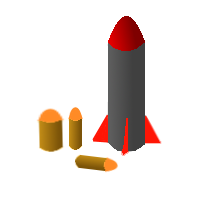
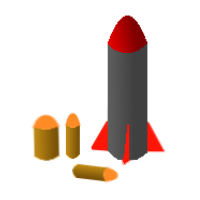
Ship can shoot bullets

diff --git a/src/Player.java b/src/Player.java
@@ -4,18 +4,29 @@ import java.awt.image.*;
 import javax.imageio.*;
 import java.io.*;
 import java.util.Map;
+import java.util.Vector;
 
 public class Player
 {
+	private int panelWidth; // le za informacijo o velikosti okna
+	private int panelHeight;
 	private Rect2D rect;
 	private Vec2D movementDirection;
 	private Vec2D hitboxLocation; // relativna lokacija hitbox-a glede na izhodisce this.rect 
 	private CircleHitbox hitbox;
+	private PlayerWeapon weapon;
 	private Image texture;
+	private Vector<PlayerBullet> bullets;
 	
-	Player(Rect2D rect) 
+	Player(Rect2D rect,int windowWidth,int windowHeight) 
 	{
+		this.panelWidth = windowWidth;
+		this.panelHeight = windowHeight;
+		this.bullets = new Vector<PlayerBullet>();
+		
 		this.rect = rect;
+		
+		this.weapon = new PlayerWeapon();
 		
 		this.movementDirection = new Vec2D(0.f,0.f);
 		
@@ -43,11 +54,25 @@ public class Player
 	
 	public void update(float deltaTime,KeyboardControls keyboard,int windowWidth,int windowHeight)
 	{
+		int i = 0;
+		while(i < this.bullets.size())
+		{
+			final PlayerBullet currBullet = this.bullets.get(i);
+			currBullet.update(deltaTime);
+			
+			if(currBullet.isOffscreen(this.panelWidth,this.panelHeight))
+				this.bullets.remove(i);
+			else
+				i++;
+		}
+		
+		this.weapon.update(deltaTime);
+		
 		final float pixelsPerMilli = .5f;
-		Map<Integer,Boolean> keyMap = keyboard.getKeyMap();
 		
 		this.movementDirection.zero();
 		
+		Map<Integer,Boolean> keyMap = keyboard.getKeyMap();
 		if(keyMap.get(KeyEvent.VK_UP))
 			this.movementDirection.translate(.0f,-1.f);
 		if(keyMap.get(KeyEvent.VK_DOWN))
@@ -56,6 +81,8 @@ public class Player
 			this.movementDirection.translate(-1.f,.0f);
 		if(keyMap.get(KeyEvent.VK_RIGHT))
 			this.movementDirection.translate(1.f,.0f);
+		if(keyMap.get(KeyEvent.VK_SPACE))
+			this.weapon.tryToShoot(this.rect,this.bullets);
 		
 		if(!this.movementDirection.isZeroVec())
 		{
@@ -66,7 +93,6 @@ public class Player
 			final float moveX = this.movementDirection.getX() * moveAmount;
 			final float moveY = this.movementDirection.getY() * moveAmount;
 			this.rect.translate(moveX,moveY);
-			//this.hitbox.getHitbox().translate(moveX,moveY);
 		}
 		
 		float rectX = this.rect.getOrigin().getX();
@@ -82,12 +108,15 @@ public class Player
 		
 		this.hitbox.getHitbox().getOrigin().setX(rectX);
 		this.hitbox.getHitbox().getOrigin().setY(rectY);
-		this.hitbox.getHitbox().translate(this.hitboxLocation);
+		this.hitbox.translate(this.hitboxLocation);
 	}
 	
 	public void draw(Graphics2D g)
 	{
-		Vec2D imagePos = rect.getOrigin();
+		for(PlayerBullet bullet : this.bullets)
+			bullet.draw(g);
+		
+		final Vec2D imagePos = rect.getOrigin();
 		g.drawImage(texture,(int)imagePos.getX(),(int)imagePos.getY(),null);
 		this.hitbox.draw(g);
 	}

diff --git a/src/PlayerWeapon.java b/src/PlayerWeapon.java
@@ -1,0 +1,53 @@
+import java.awt.Image;
+import java.io.IOException;
+import java.util.Vector;
+
+public class PlayerWeapon
+{
+	static final int bullX = 35; // TODO zbrisi pol 
+	static final int bullY = 15; // zbrisi pol
+	static final Vec2D bullSpd = new Vec2D(1.5f,0.f); // zbrisi pol
+	static final float shootCooldown = 250.f; // zbrisi pol
+	
+	private double timer;
+	private double lastShotAt;
+	private Image[] bulletTextures;
+	
+	
+	PlayerWeapon()
+	{
+		this.timer = 0.;
+		this.lastShotAt = 0.;
+
+		try
+		{
+			bulletTextures = new Image[] {
+				Loader.loadImage(".\\assets\\images\\weaponDefault.png",bullX,bullY)
+			};
+		}
+		catch(IOException e)
+		{
+			e.printStackTrace();
+		}
+	}
+	
+	public void update(float deltaTime)
+	{
+		timer += deltaTime;
+	}
+	
+	public void tryToShoot(Rect2D shipPosition,Vector<PlayerBullet> bullets) // funkcija modificira spremenljivko bullets
+	{
+		if(this.timer - this.lastShotAt > shootCooldown)
+		{
+			this.lastShotAt = this.timer;
+			
+			final float bulletX = shipPosition.getOrigin().getX() + shipPosition.getWidth(); 
+			final float bulletY = shipPosition.getOrigin().getY() + shipPosition.getHeight()/2 - bullY/2;
+			
+			final Rect2D bulletPos = new Rect2D(bulletX,bulletY,bullX,bullY);
+			
+			bullets.add(new PlayerBullet(bulletPos,bullSpd,bulletTextures[0]));
+		}
+	}
+}

diff --git a/src/PlayerBullet.java b/src/PlayerBullet.java
@@ -1,0 +1,37 @@
+import java.awt.*;
+
+public class PlayerBullet extends Projectile 
+{
+	private RectHitbox hitbox;
+	
+	PlayerBullet(Rect2D rect,Vec2D speed,Image texture)
+	{
+		super(rect,speed,texture);
+		this.hitbox = new RectHitbox(this.rect.getOrigin(),this.rect.getWidth(),this.rect.getHeight());
+	}
+	
+	@Override
+	public void update(float deltaTime)
+	{
+		//TODO add list of enemies
+		Vec2D movementAmount = this.speed.clone();
+		movementAmount.scalarMul(deltaTime);
+		
+		this.rect.translate(movementAmount);
+		this.hitbox.translate(movementAmount);
+	}
+
+	@Override
+	public void draw(Graphics2D g)
+	{
+		final Vec2D imagePos = this.rect.getOrigin();
+		g.drawImage(texture,(int)imagePos.getX(),(int)imagePos.getY(),null);
+		this.hitbox.draw(g);
+	}
+	
+	public boolean isOffscreen(int width,int height)
+	{
+		// vsi metki grejo le naravnost 
+		return this.rect.getOrigin().getX() > width;
+	}
+}

diff --git a/src/Panel.java b/src/Panel.java
@@ -13,6 +13,7 @@ public class Panel extends JPanel
 	private Background background;
 	private KeyboardControls keyboard;
 	
+	
 	Panel(int width,int height)
 	{
 		super();
@@ -21,7 +22,7 @@ public class Panel extends JPanel
 		this.panelHeight = height;
 		this.setPreferredSize(new Dimension(this.panelWidth,this.panelHeight));
 		
-		this.player = new Player(new Rect2D(50.f,300.f,100.f,150.f));
+		this.player = new Player(new Rect2D(50.f,300.f,100.f,150.f),this.panelWidth,this.panelHeight);
 		
 		this.keyboard = new KeyboardControls();
 		

diff --git a/src/Vec2D.java b/src/Vec2D.java
@@ -48,12 +48,22 @@ public class Vec2D
 		final float norm = this.norm();
 		
 		this.x /= norm;
-		this.y /= norm; 
+		this.y /= norm;
 	}
 	
 	public boolean isZeroVec()
 	{
 		return Math.signum(this.x) == 0 && Math.signum(this.y) == 0; 
+	}
+	
+	public void scalarMul(float scalar)
+	{
+		this.x *= scalar;
+		this.y *= scalar;
+	}
+	public Vec2D clone()
+	{
+		return new Vec2D(this.x,this.y);
 	}
 	
 	public float getX() 

diff --git a/src/Projectile.java b/src/Projectile.java
@@ -1,0 +1,18 @@
+import java.awt.*;
+
+public abstract class Projectile 
+{
+	protected Rect2D rect;
+	protected Vec2D speed;
+	protected Image texture;
+	
+	Projectile(Rect2D rect,Vec2D speed,Image texture)
+	{
+		this.rect = rect;
+		this.speed = speed; // koliko pikslov na ms
+		this.texture = texture;
+	}
+	
+	abstract public void update(float deltaTime);
+	abstract public void draw(Graphics2D g);	
+}

diff --git a/src/CircleHitbox.java b/src/CircleHitbox.java
@@ -24,6 +24,16 @@ public class CircleHitbox
 		return Collisions.CircleRect(this.hitbox,o.getHitbox());
 	}
 	
+	public void translate(float x,float y)
+	{
+		this.hitbox.translate(x,y);
+	}
+	
+	public void translate(Vec2D v)
+	{
+		this.translate(v.getX(),v.getY());
+	}
+	
 	public Circle2D getHitbox()
 	{
 		return this.hitbox;

diff --git a/src/RectHitbox.java b/src/RectHitbox.java
@@ -26,6 +26,16 @@ public class RectHitbox
 		return Collisions.CircleRect(o.getHitbox(),this.hitbox);
 	}
 	
+	public void translate(float x,float y)
+	{
+		this.hitbox.translate(x,y);
+	}
+	
+	public void translate(Vec2D v)
+	{
+		this.translate(v.getX(),v.getY());
+	}
+	
 	public Rect2D getHitbox()
 	{
 		return this.hitbox;

diff --git a/src/Rect2D.java b/src/Rect2D.java
@@ -24,5 +24,20 @@ public class Rect2D extends Shape2D
 	{
 		return this.height;
 	}
+	
+	public void setWidth(float width)
+	{
+		this.width = width;
+	}
+	
+	public void setHeight(float height)
+	{
+		this.height = height;
+	}
+	
+	public Rect2D clone()
+	{
+		return new Rect2D(this.origin,this.width,this.height);
+	}
 }
 

diff --git a/src/EnemyBullet.java b/src/EnemyBullet.java
@@ -1,0 +1,19 @@
+//import java.awt.Graphics2D;
+//
+//public class EnemyBullet extends Projectile
+//{
+//	private CircleHitbox hitbox;
+//	
+//	@Override
+//	public void update(float deltaTime)
+//	{
+//		
+//	}
+//
+//	@Override
+//	public void draw(Graphics2D g)
+//	{
+//		
+//	}
+//
+//}

diff --git a/src/KeyboardControls.java b/src/KeyboardControls.java
@@ -14,6 +14,7 @@ public class KeyboardControls
 		keyMap.put(KeyEvent.VK_DOWN,false);
 		keyMap.put(KeyEvent.VK_LEFT,false);
 		keyMap.put(KeyEvent.VK_RIGHT,false);
+		keyMap.put(KeyEvent.VK_SPACE,false);
 	}
 	
 	public Map<Integer,Boolean> getKeyMap()

diff --git a/src/Window.java b/src/Window.java
@@ -17,7 +17,6 @@ public class Window extends JFrame
 		super(name);
 		this.setDefaultCloseOperation(WindowConstants.EXIT_ON_CLOSE);
 		this.setSize(width,height);
-		this.validate();
 		this.setResizable(false);
 		this.setLocationRelativeTo(null);
 		
